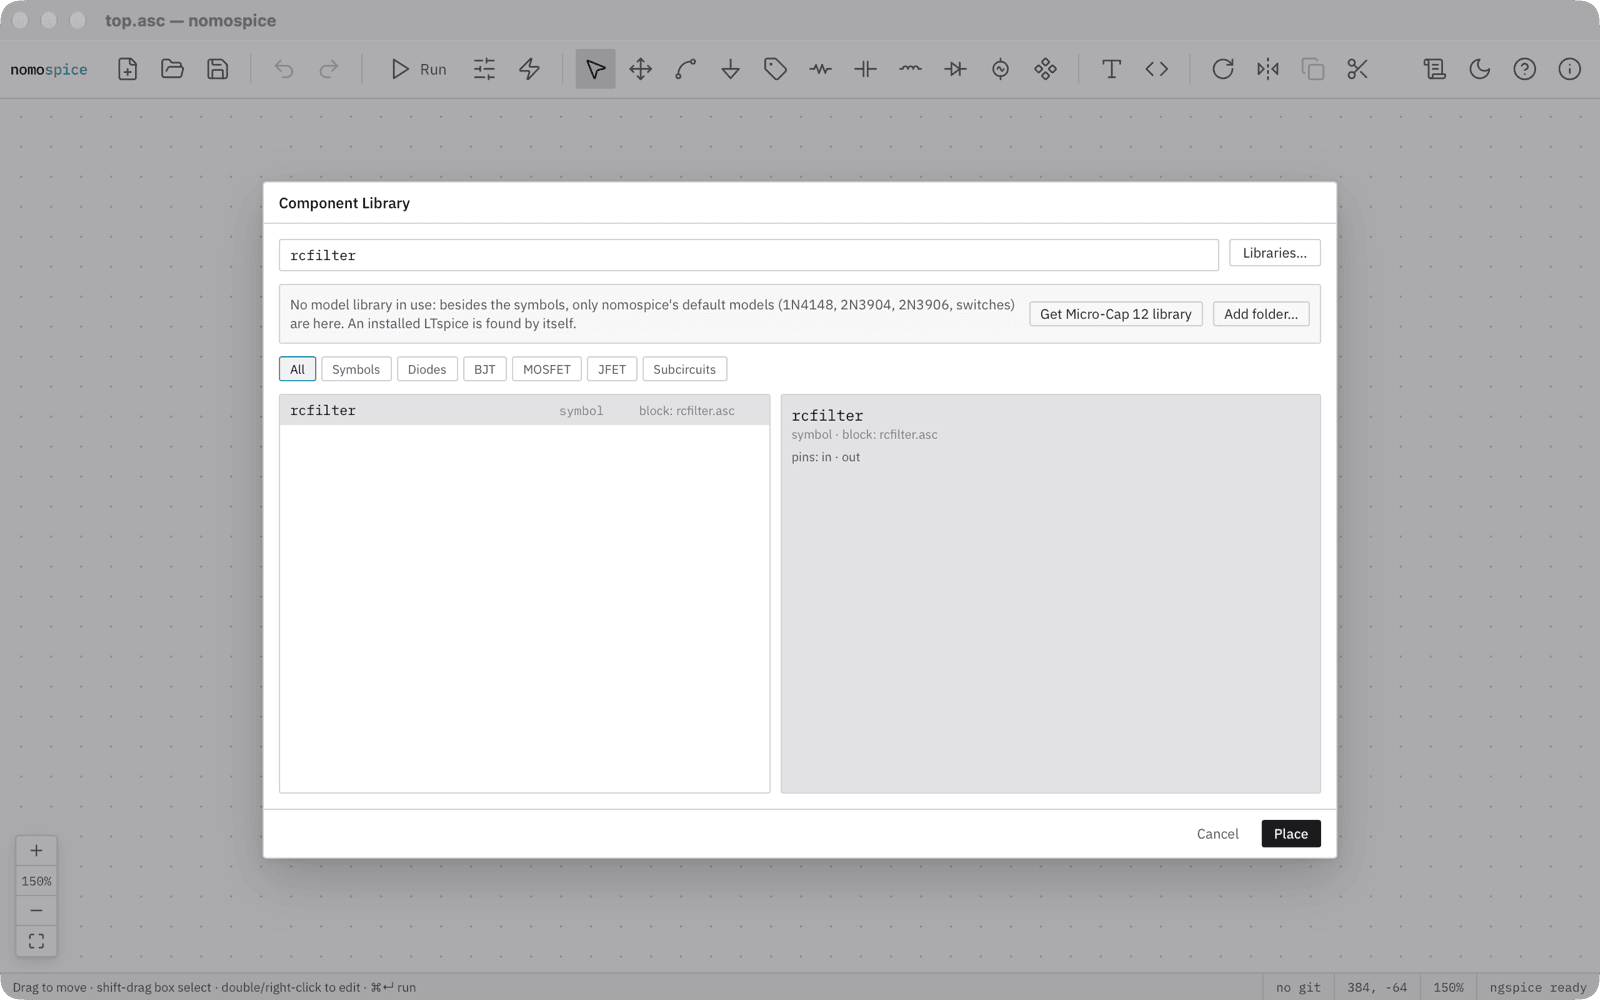
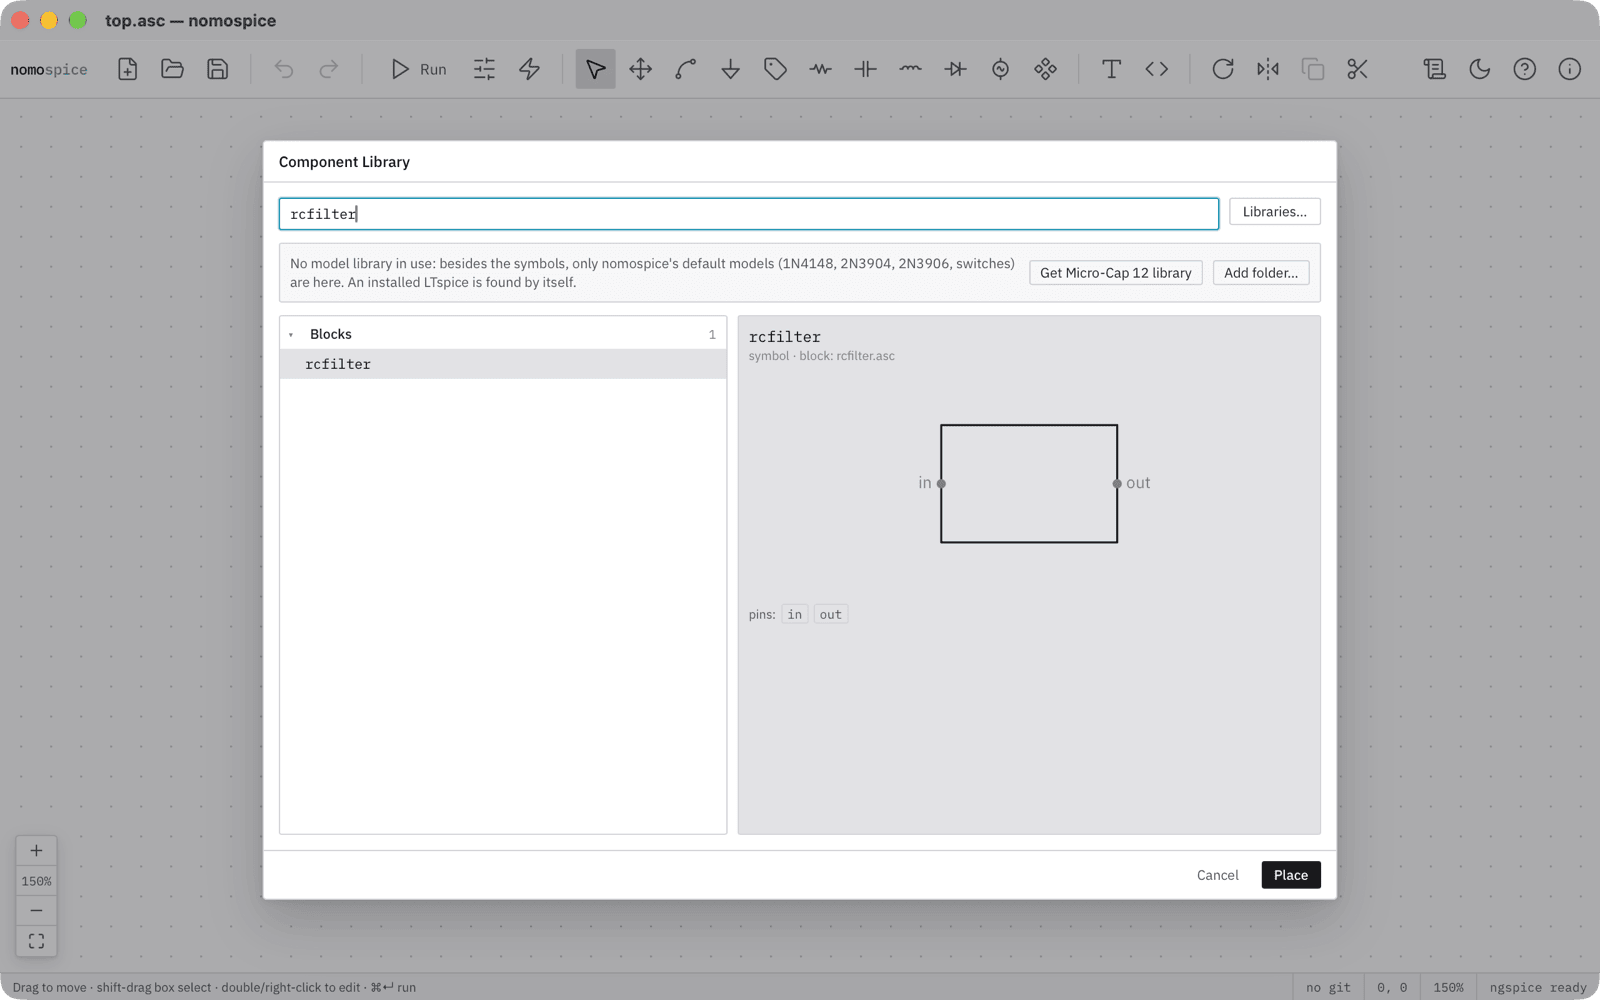
Docs: the component library's tree, its preview with a model's curves (text and pictures)

diff --git a/docs/scenes/model-libraries.js b/docs/scenes/model-libraries.js
@@ -4,6 +4,7 @@ export default async function (app) {
   await app.example("ce_amplifier");
   await app.key("p");
   await app.type("input", "2N3904");
+  await app.sleep(3000); // (its curves computed)
   await app.shot("01-search");
   await app.press("Libraries");
   await app.shot("02-libraries");

diff --git a/docs/how-to/model-libraries.md b/docs/how-to/model-libraries.md
@@ -17,7 +17,7 @@ When two libraries define the same name, the one listed first wins. Untick a lib
 
 ![The component library searching for 2N3904](../img/model-libraries/01-search.png)
 
-Press ++p++ (or ++f2++, ++cmd+k++) for the component library and type a name. The tabs narrow the list to symbols, diodes, BJTs, MOSFETs, JFETs or subcircuits; the right side shows a part's description and pins. Click *Place* and put the part down like any other.
+Press ++p++ (or ++f2++, ++cmd+k++) for the component library and type a name, or browse its tree: nomospice's own parts by what they are, the schematic folder's symbols and blocks, the libraries' models by kind and library, and the parts you used last. The right side draws the selected part as it will be placed, with its pins; for a diode, transistor or JFET model it also draws the characteristic curves (a diode's current over its voltage, a transistor's output curves per base current or gate voltage). Click *Place*, or double-click the part, and put it down like any other.
 
 A subcircuit without a symbol of its own gets a generated box symbol with its pins. Its definition, and the definitions it depends on, go into the netlist by themselves.
 

diff --git a/docs/tutorial/blocks.md b/docs/tutorial/blocks.md
@@ -27,7 +27,7 @@ Right-click an empty spot of the canvas and choose Create block symbol. nomospic
 
 ![The Component Library listing the block rcfilter](../img/blocks/04-parts.png)
 
-Make a new schematic with ++cmd+n++ and save it in the same folder: a block is found beside the schematic that uses it. Press ++p++ for the component library. Search for rcfilter: it is listed as a block of rcfilter.asc, with its pins in and out. Place it like any other part.
+Make a new schematic with ++cmd+n++ and save it in the same folder: a block is found beside the schematic that uses it. Press ++p++ for the component library. Search for rcfilter: it is listed under *Blocks* and drawn on the right with its pins in and out. Place it like any other part.
 
 ![Two rcfilter blocks in series and their Bode plot](../img/blocks/05-cascade.png)
 
